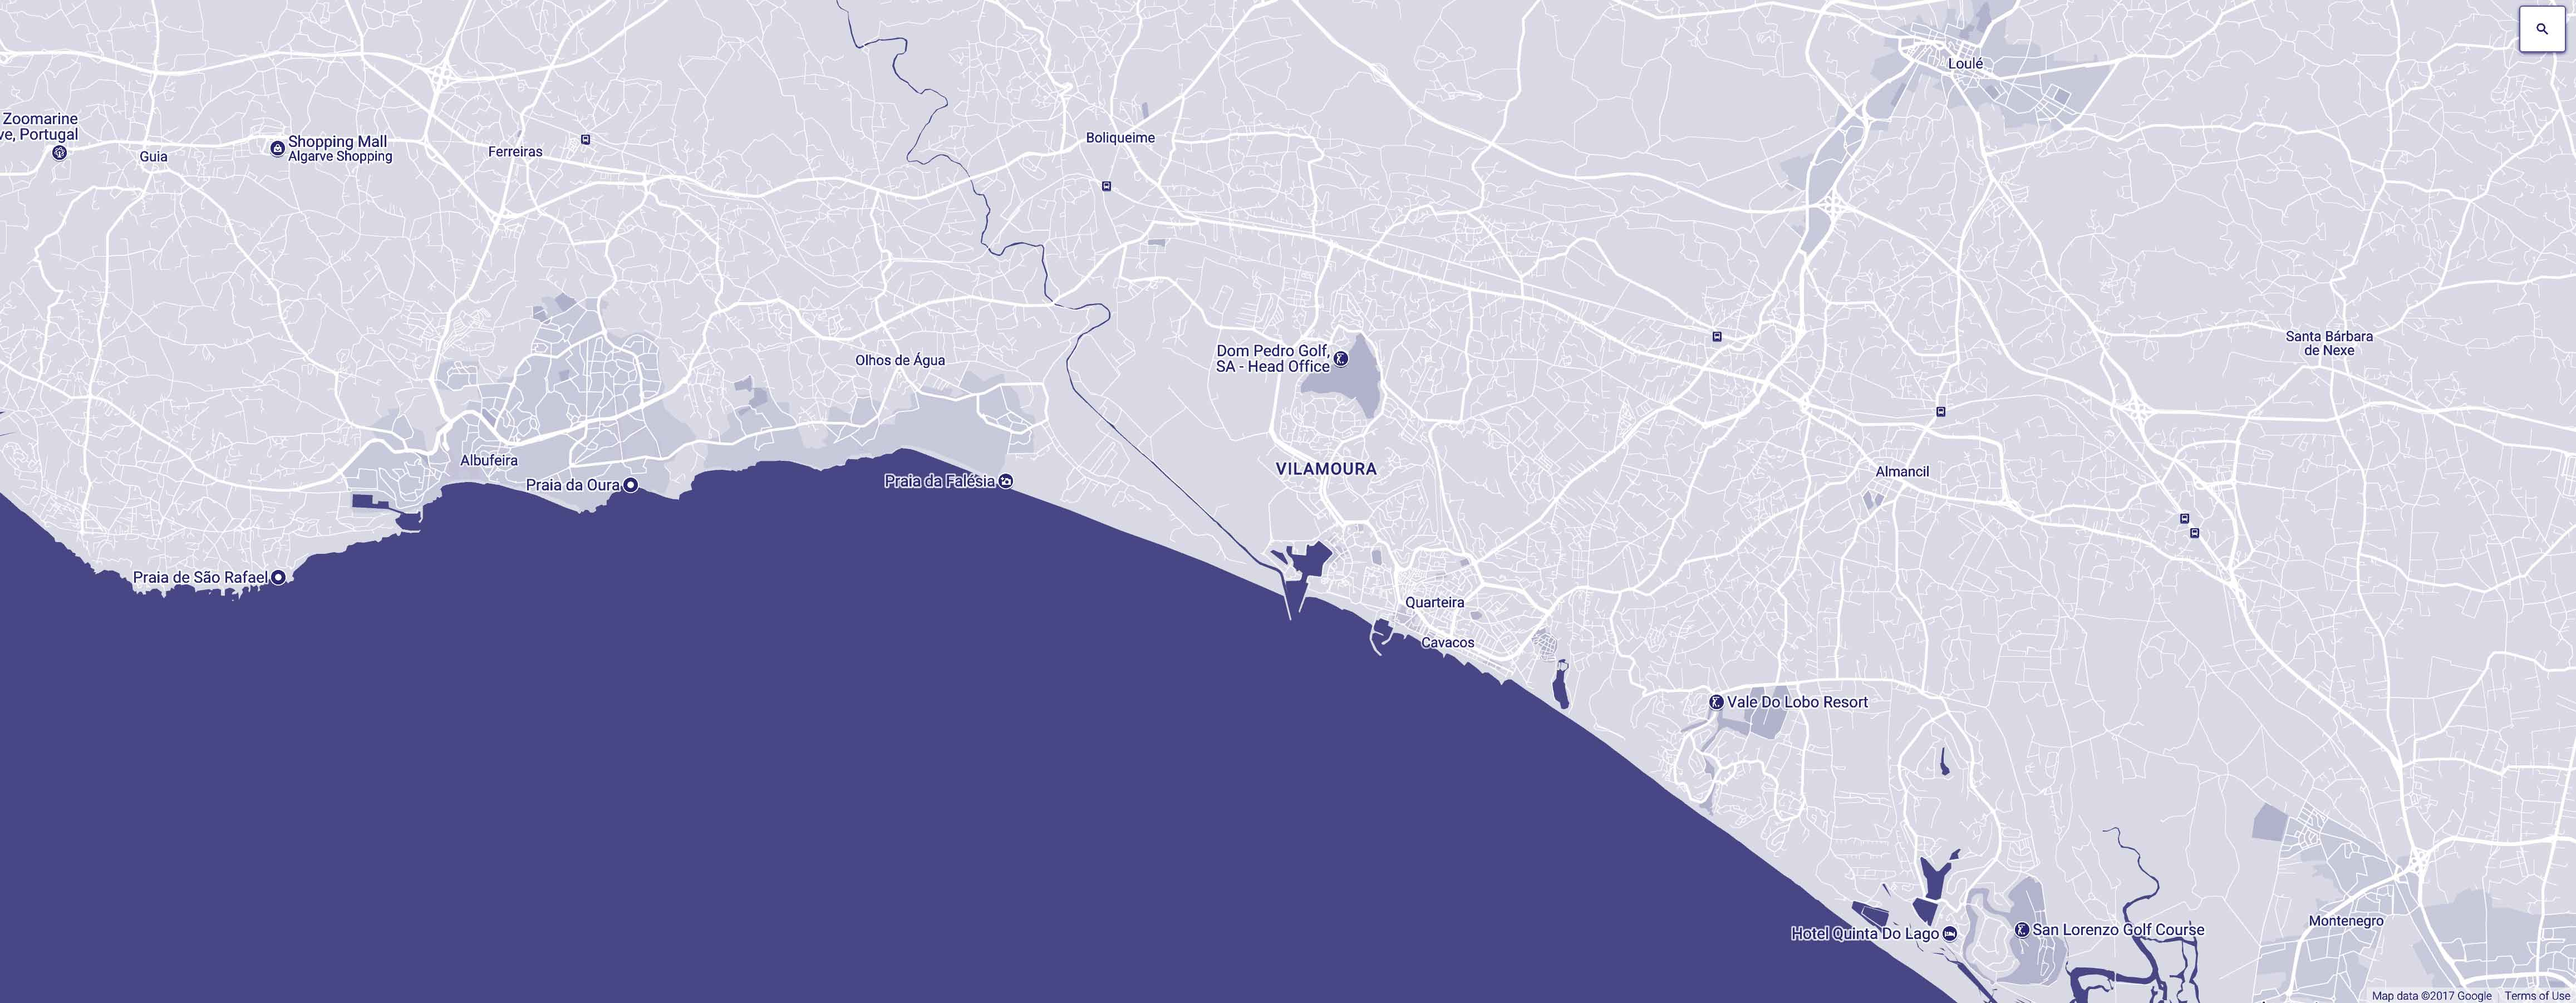
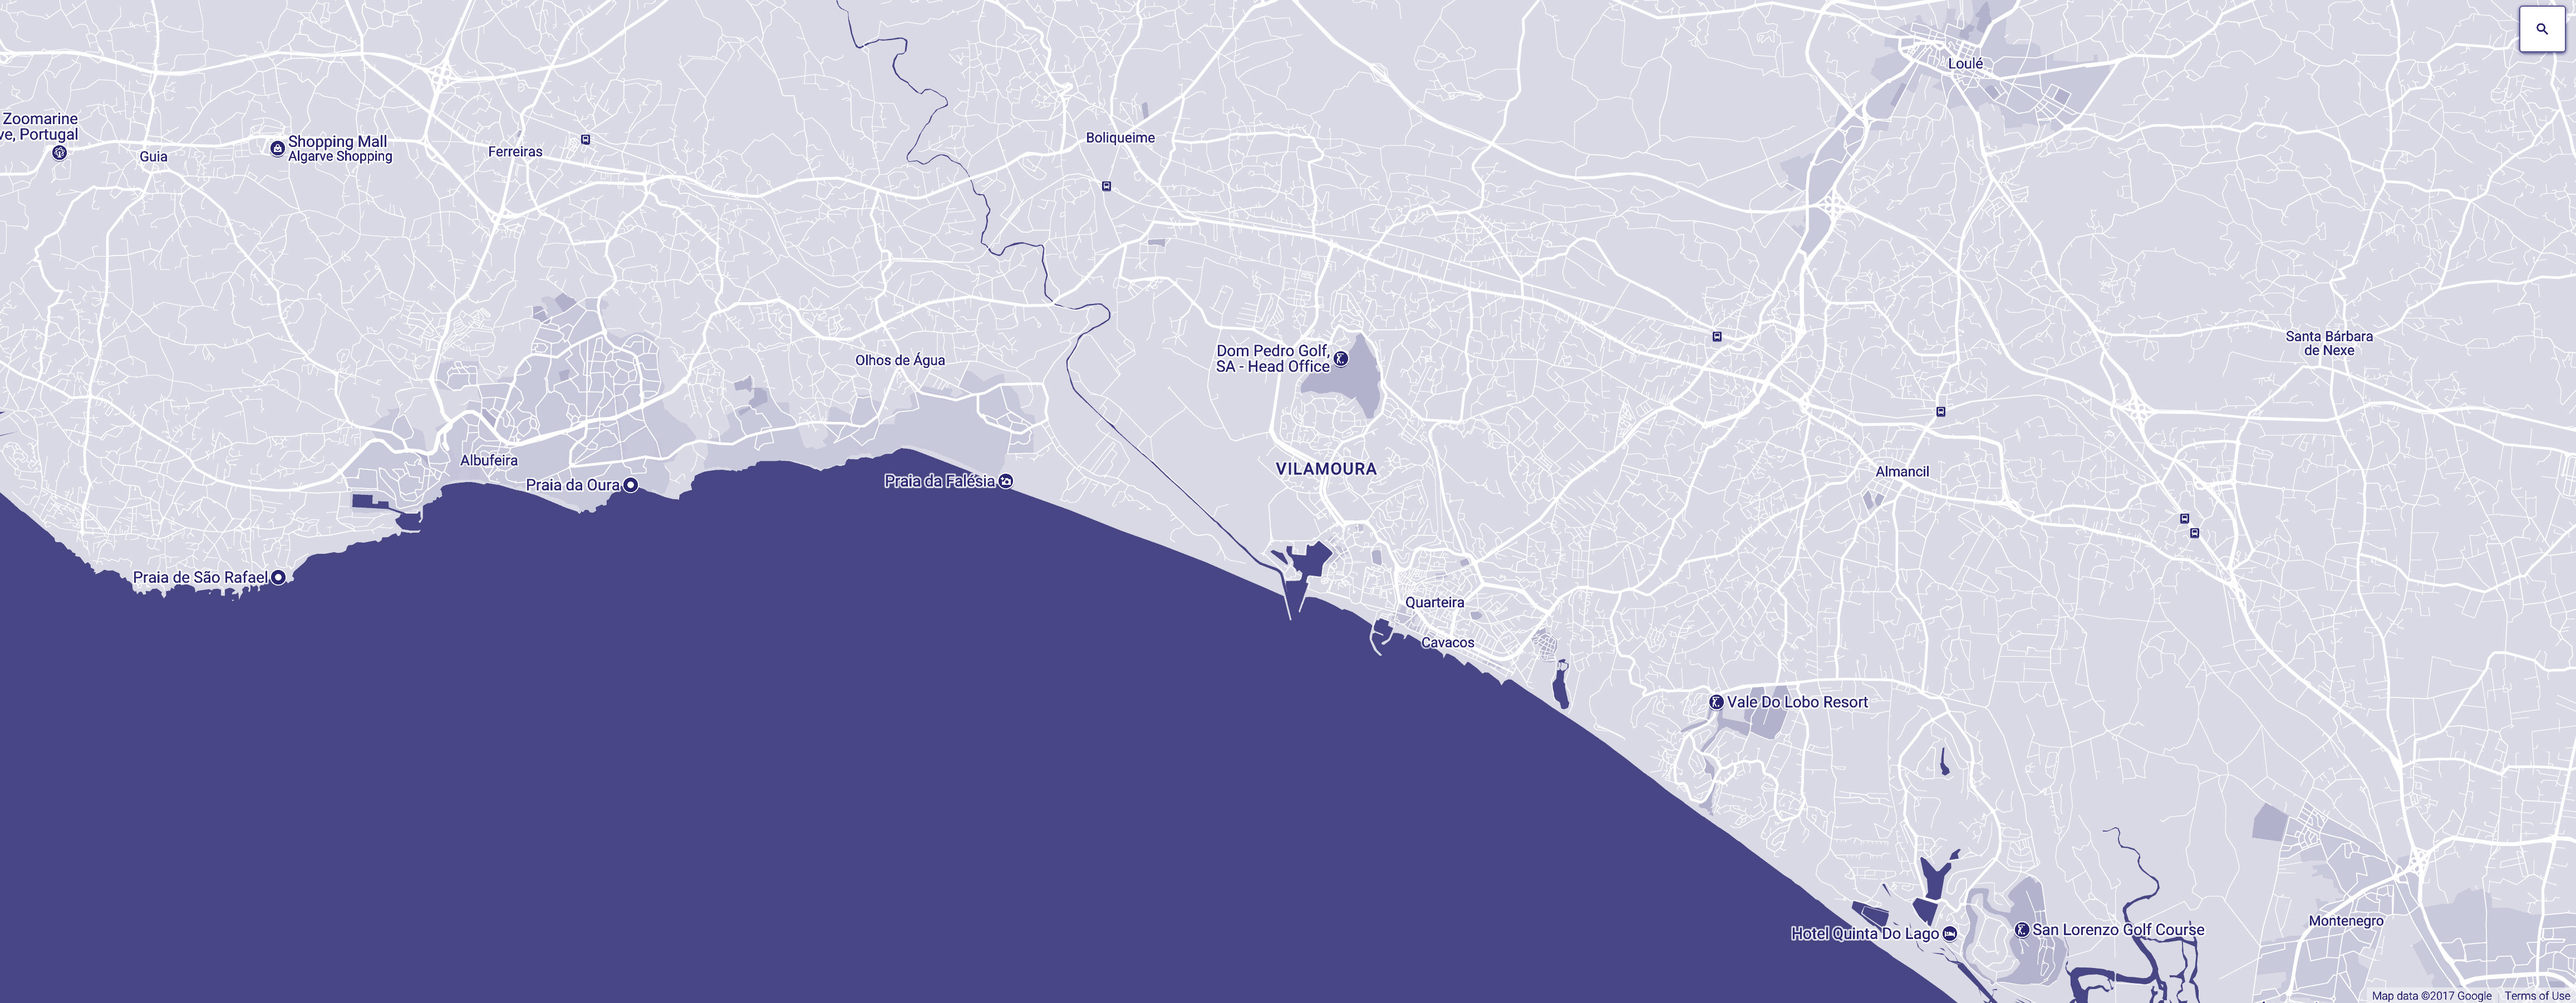
Update location section

diff --git a/app/index.html b/app/index.html
@@ -284,7 +284,6 @@
   </div><!-- contact -->
 
   <div id="map" class="location">
-    <!-- <img src="assets/images/google-map.jpg" alt=""> -->
     <div class="location__pin">
       <h2 class="location__title">Marina Square</h2>
       <h3 class="location__subtitle">Shopping</h3>

diff --git a/app/assets/styles/modules/_location.css b/app/assets/styles/modules/_location.css
@@ -4,10 +4,6 @@
   background: url("../../assets/images/google-map.jpg") center center no-repeat;
   background-size: auto;
 
-  /*@mixin atLarge {
-    background-size: cover;
-  }*/
-
   &__pin {
     position: absolute;
     background: $mainBlue;

diff --git a/app/temp/styles/styles.css b/app/temp/styles/styles.css
@@ -1481,10 +1481,6 @@ img {
   background-size: auto;
 }
 
-/*@mixin atLarge {
-    background-size: cover;
-  }*/
-
 .location__pin {
     position: absolute;
     background: #29296D;
